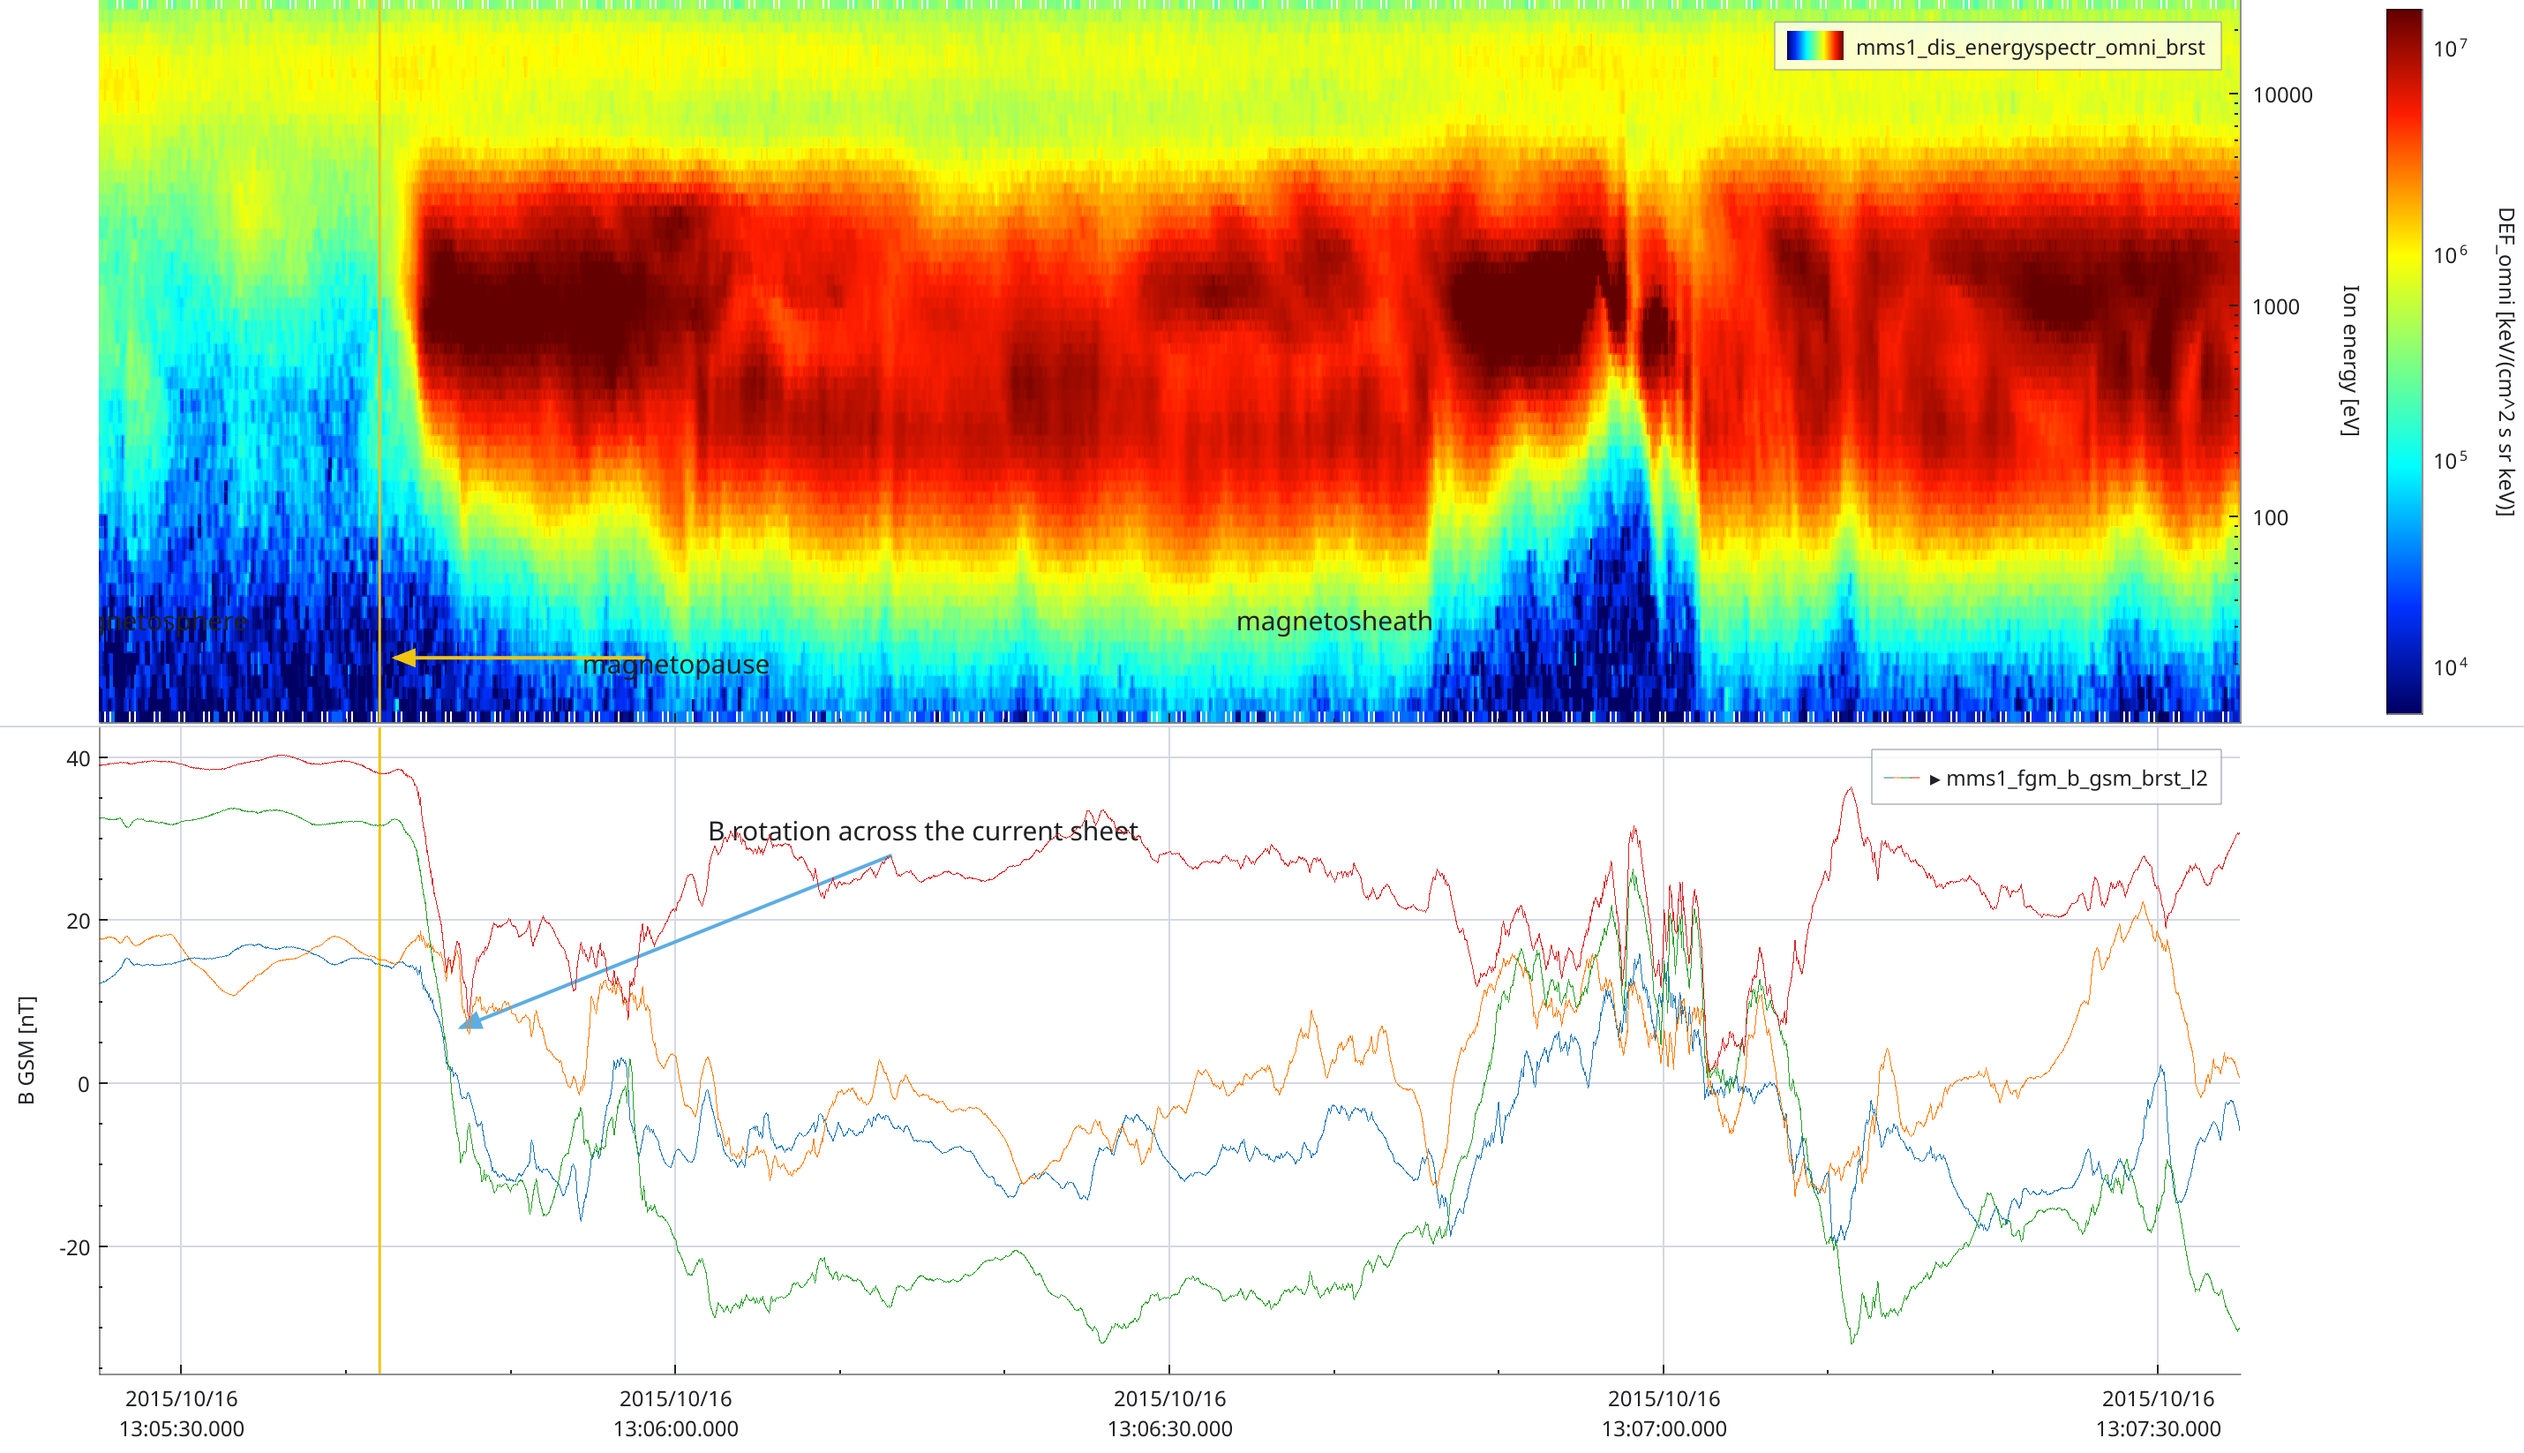
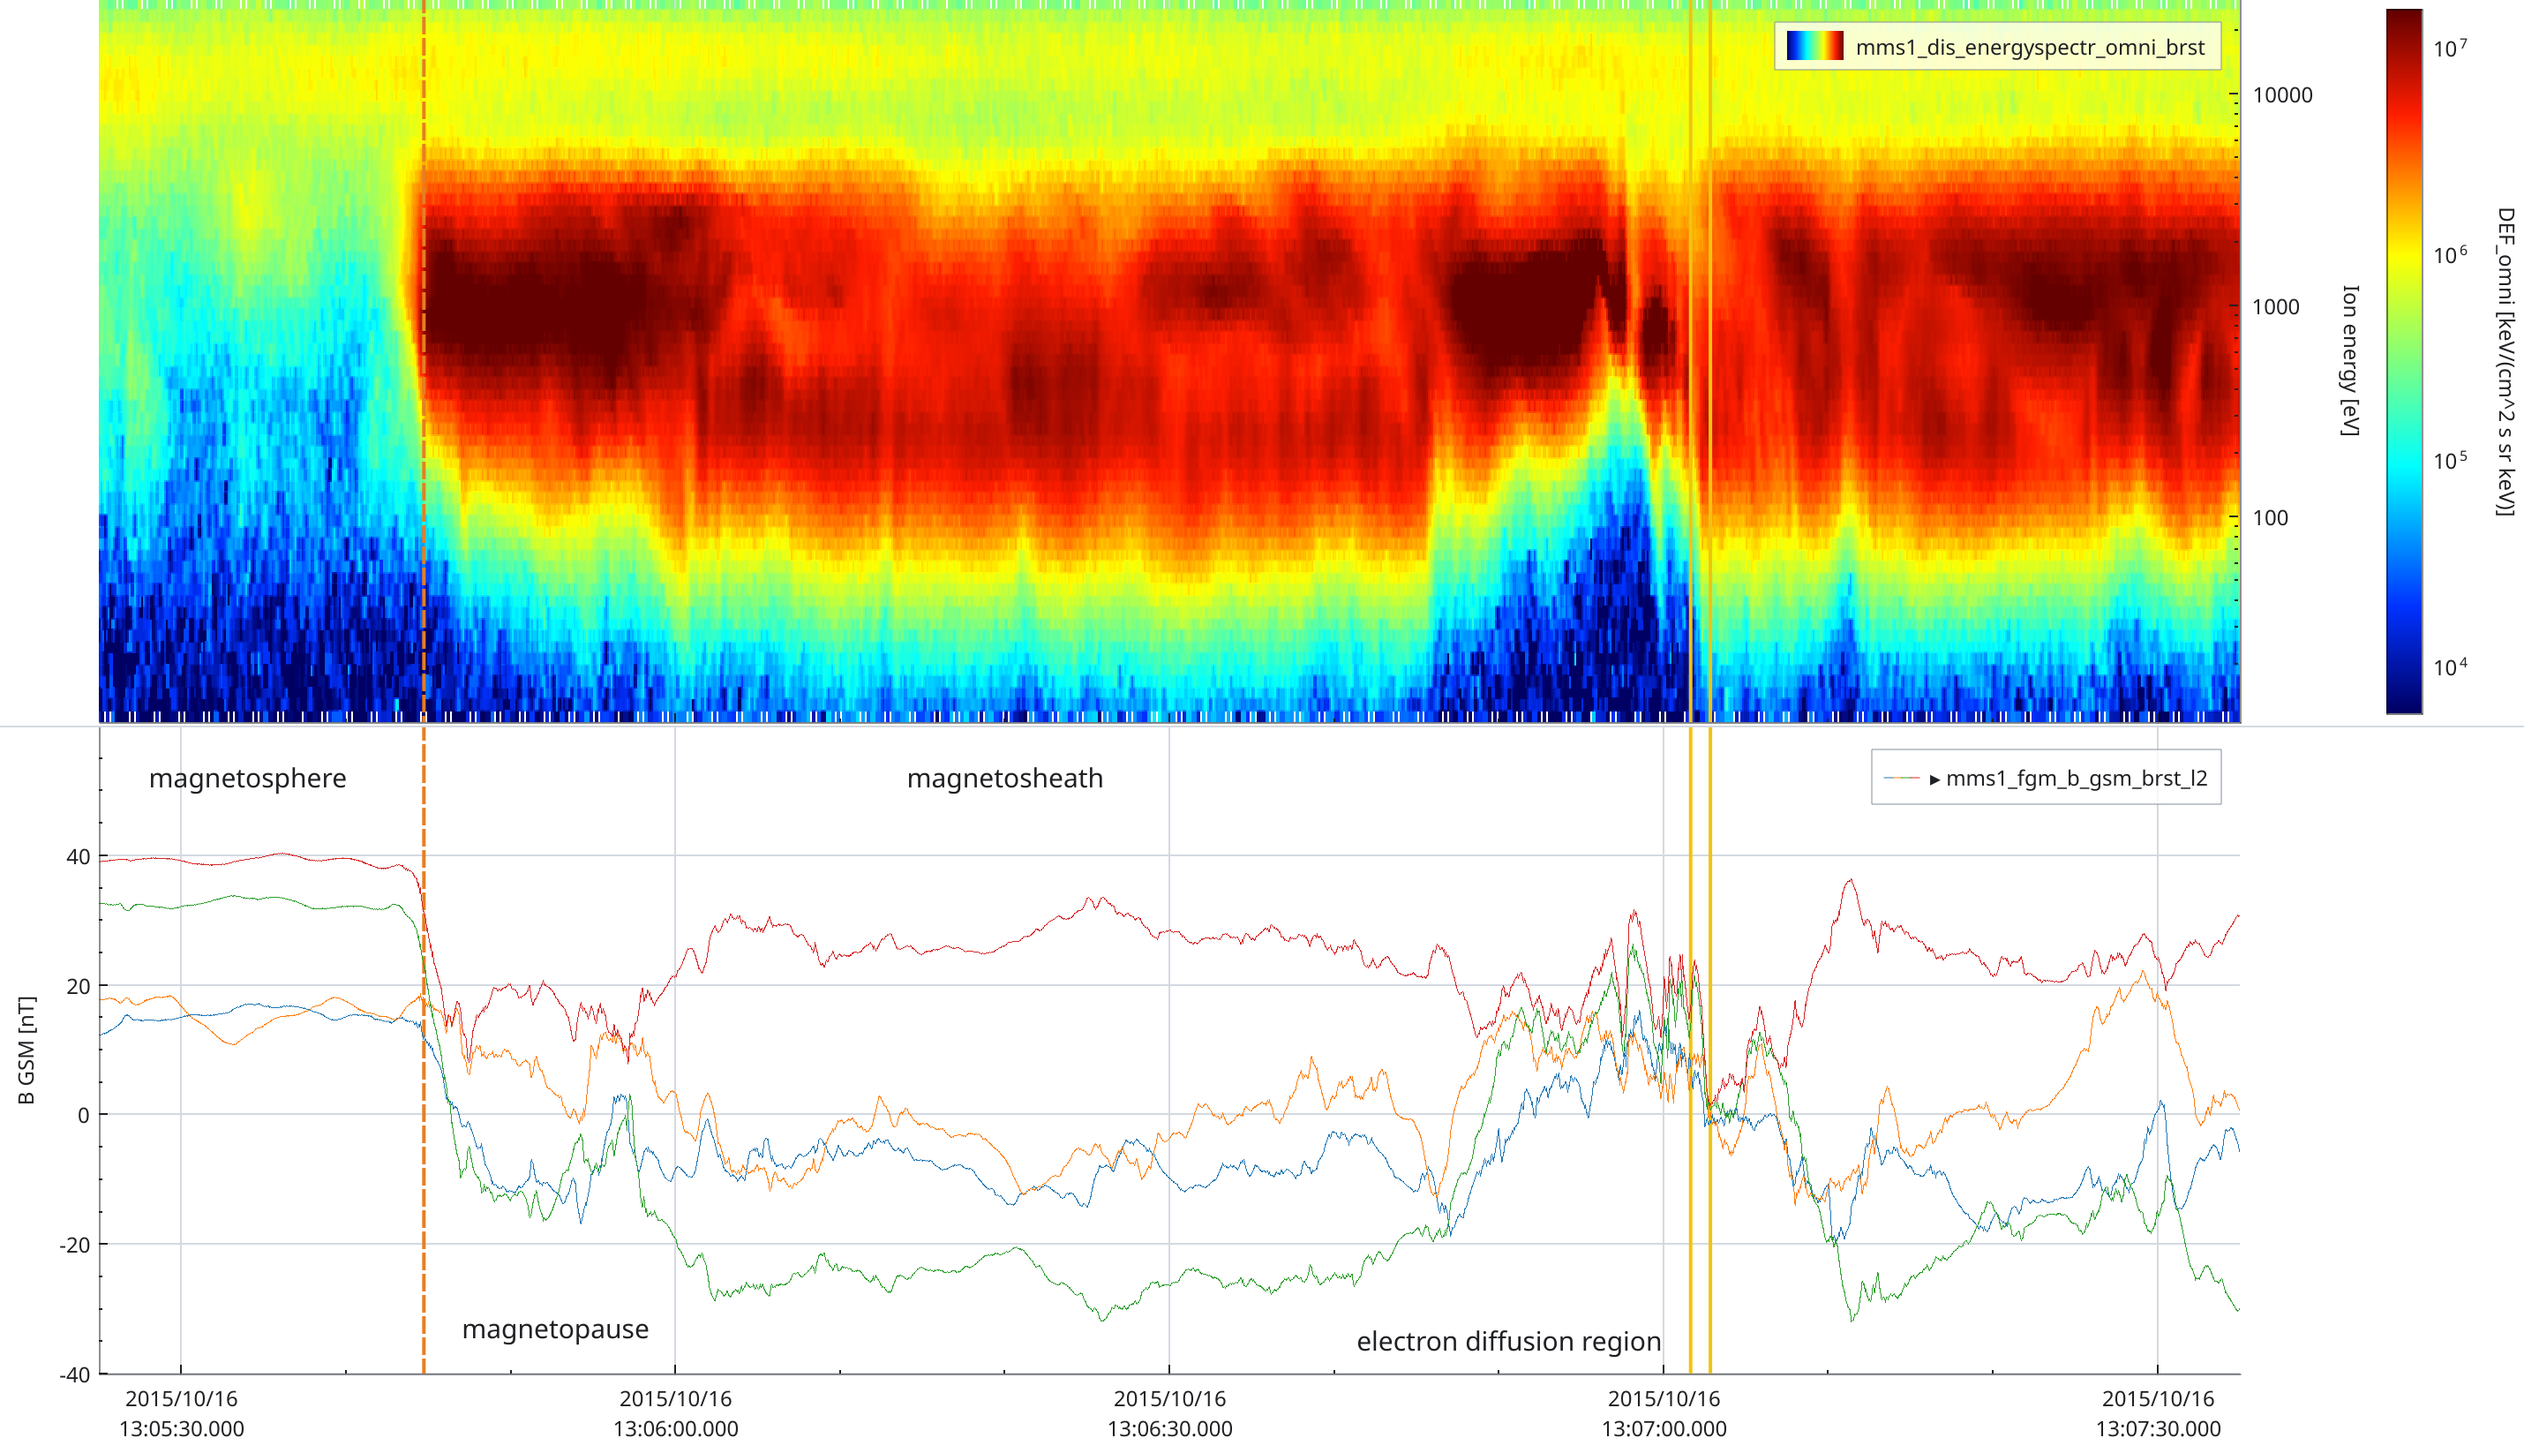
gallery: 09 marks the magnetopause and the EDR cleanly; heading no longer claims publication style
The old shot had clipped, unreadable labels and an arrow pointing at nothing.
Themes (10) reshot from the same panel.

diff --git a/scripts/shots/gallery_09_10_primitives_themes.py b/scripts/shots/gallery_09_10_primitives_themes.py
@@ -1,24 +1,38 @@
-"""09: publication-style annotation of the crossing with graphic primitives.
-10: the same panel in the four built-in palettes."""
+"""09: the Burch et al. (2016) crossing marked with graphic primitives: the magnetopause and the
+electron diffusion region. 10: the same panel in the four built-in palettes."""
 import os
 import sys
 from datetime import datetime, timezone
+
+import numpy as np
+import speasy as spz
 
 sys.path.insert(0, os.path.dirname(__file__))
 from mms import BURCH_EDR, DIS_BRST, FGM_BRST_GSM  # noqa: E402
 from shotlib import main_window, pump, save_panel, set_labels, settle  # noqa: E402
 
 from SciQLop.user_api import themes  # noqa: E402
-from SciQLop.user_api.plot import CurvedLine, LineTermination, Text, VerticalLine, create_plot_panel  # noqa: E402
+from SciQLop.user_api.plot import Text, VerticalLine, create_plot_panel  # noqa: E402
+from PySide6.QtCore import Qt  # noqa: E402
 
-YELLOW, BLUE = "#f1c40f", "#5dade2"
+ORANGE, YELLOW = "#e67e22", "#f1c40f"
+SHEATH_DENSITY = 5.0  # cm^-3
+LABEL_Y = 52.0  # nT, in the headroom above the field traces
 
 
-def utc(*hms) -> float:
-    return datetime(2015, 10, 16, *hms, tzinfo=timezone.utc).timestamp()
+def utc(h: int, m: int, s: float) -> float:
+    return datetime(2015, 10, 16, h, m, tzinfo=timezone.utc).timestamp() + s
 
 
-T_CROSS = utc(13, 5, 42)
+def magnetopause_time() -> float:
+    n = spz.get_data("cda/MMS1_FPI_BRST_L2_DIS-MOMS/mms1_dis_numberdensity_brst",
+                     BURCH_EDR.start(), BURCH_EDR.stop())
+    first = np.argmax(n.values[:, 0] > SHEATH_DENSITY)
+    return n.time[first].astype("datetime64[ns]").astype("int64") / 1e9
+
+
+T_MP = magnetopause_time()
+EDR = (utc(13, 7, 1.6), utc(13, 7, 2.8))
 
 main_window()
 panel = create_plot_panel()
@@ -26,22 +40,20 @@ panel.time_range = BURCH_EDR
 spectrum, _ = panel.plot(DIS_BRST + "mms1_dis_energyspectr_omni_brst")
 b_plot, _ = panel.plot(FGM_BRST_GSM)
 settle(panel)
-# Primitives use the left y axis, but a spectrogram draws on the right one ("y2"). Pinning the
-# unused left axis to 0..1 lets the spectrogram annotations sit at fractions of the plot height.
+# Primitives use the left y axis; a spectrogram draws on the right one ("y2"). Pinning the
+# unused left axis to 0..1 lets the spectrogram marks span the full plot height.
 spectrum.set_axis_range("y", 0.0, 1.0)
+b_plot.set_y_range(-40.0, 60.0)
 
 annotations = [
-    VerticalLine(spectrum, T_CROSS, color=YELLOW, line_width=1.5),
-    VerticalLine(b_plot, T_CROSS, color=YELLOW, line_width=1.5),
-    Text(spectrum, "magnetosphere", x=utc(13, 5, 31), y=0.14, color="white", font_size=11),
-    Text(spectrum, "magnetopause", x=utc(13, 6, 0), y=0.08, color="white", font_size=11),
-    Text(spectrum, "magnetosheath", x=utc(13, 6, 40), y=0.14, color="white", font_size=11),
-    CurvedLine(spectrum, start=(utc(13, 5, 58), 0.09), stop=(T_CROSS + 1, 0.09), color=YELLOW,
-               line_width=2.0, stop_termination=LineTermination.Arrow),
-    Text(b_plot, "B rotation across the current sheet", x=utc(13, 6, 15), y=31, color="white",
-         font_size=11),
-    CurvedLine(b_plot, start=(utc(13, 6, 13), 28), stop=(utc(13, 5, 47), 7), color=BLUE,
-               line_width=2.0, stop_termination=LineTermination.Arrow),
+    *(VerticalLine(p, T_MP, color=ORANGE, line_width=2.0, line_style=Qt.PenStyle.DashLine)
+      for p in (spectrum, b_plot)),
+    # A RectangularSpan would shade the EDR, but it doesn't draw yet (reported 2026-10-11).
+    *(VerticalLine(p, t, color=YELLOW, line_width=2.0) for p in (spectrum, b_plot) for t in EDR),
+    Text(b_plot, "magnetosphere", x=utc(13, 5, 34), y=LABEL_Y, font_size=11),
+    Text(b_plot, "magnetopause", x=T_MP + 8, y=-33.0, font_size=11),
+    Text(b_plot, "magnetosheath", x=utc(13, 6, 20), y=LABEL_Y, font_size=11),
+    Text(b_plot, "electron diffusion region", x=EDR[0] - 11, y=-35.0, font_size=11),
 ]
 pump(1)
 set_labels(panel, [("y2", "Ion energy [eV]"), ("y", "B GSM [nT]")])
@@ -49,7 +61,6 @@ save_panel(panel, "09-graphic-primitives-annotated-crossing.png")
 
 for theme in ["light", "dark", "neutral", "space"]:
     themes.apply_theme(theme)
-    pump(1.5)
-    set_labels(panel, [("y2", "Ion energy [eV]"), ("y", "B GSM [nT]")])
+    pump(4)
     save_panel(panel, f"10-theme-{theme}.png")
 themes.apply_theme("dark")

diff --git a/content/gallery/SOURCES.md b/content/gallery/SOURCES.md
@@ -16,7 +16,7 @@ cannot produce them; the reason is given.
 | `06-annotation-layer-detector.png` | Data-aware annotation layer `detectors/magnetosheath`: blue spans = N_i > threshold, orange markers = threshold crossings, red line = the threshold knob itself. | 2015-10-16 13:05:25–13:07:35 | as shot 01 | `@register_layer`, `panel.add_layer` — `gallery_06_annotation_layer.py`. |
 | `07-knobs-parameterized-virtual-product.png` | Full window, Properties dock open. Inspector shows the parameterised virtual product `demo/Bmag_smoothed` with its **Adjustable inputs** section: `Smooth window [samples]` and `Threshold [nT]`, both labelled. The red line on the bottom plot is the draggable threshold knob (`widget="hline"`), moved from 25 to 26.3 nT. Top plot is raw FGM burst B GSM. Reshot 2026-09-14. The Properties dock is an auto-hiding pane and overlays the plot while open. | 2015-10-16 13:05:25–13:07:35 | `speasy//cda//MMS//MMS1//FGM//MMS1_FGM_BRST_L2//mms1_fgm_b_gsm_brst_l2` + virtual `demo/Bmag_smoothed` (boxcar-smoothed \|B\|) | `create_virtual_product` + `Annotated[..., Knob(...)]`, `widget="hline"` knob rendered by SciQLop — `gallery_07_knobs.py`; Smooth window 128. |
 | `08-catalog-overlays-multi-plot.png` | Two colour-coded catalogs over three plots. MMS1 sits in the magnetosheath (N_i ≈ 20–40 cm⁻³, cold ions, turbulent B) until ~13:40, then enters the magnetosphere. Events were **derived from the data**, not hand-drawn. | 2015-10-16 10:00–16:00 | FPI-DIS + FGM survey L2 | `catalogs.save`, `add_catalog_overlay(override_color=...)` — `gallery_08_catalog_overlays.py`. |
-| `09-graphic-primitives-annotated-crossing.png` | Publication-style annotation of the same crossing. | 2015-10-16 13:05:25–13:07:35 | as shot 01 | `CurvedLine` (arrow terminations), `Text`, `VerticalLine` — `gallery_09_10_primitives_themes.py`. |
+| `09-graphic-primitives-annotated-crossing.png` | The same crossing, marked: magnetopause (dashed, first sample with N_i > 5 cm⁻³) and the electron diffusion region (13:07:01.6–02.8). Region labels in the theme's text colour. | 2015-10-16 13:05:25–13:07:35 | as shot 01 | `VerticalLine`, `Text` — `gallery_09_10_primitives_themes.py`; `RectangularSpan` would shade the EDR but doesn't draw yet. |
 | `10-theme-{light,dark,neutral,space}.png` | Identical panel in all four palettes — compose as a 2×2. | as shot 09 | as shot 09 | `themes.apply_theme` — `gallery_09_10_primitives_themes.py`. |
 | `11-ai-assistant-dock.png` | Agents dock (OpenCode backend) on the left, the request visible at the top of the chat, then the agent's plan and its product-tree lookups; the resulting panel on the right. Reshot 2026-09-14 by hand. | 2015-10-16 13:05:25–13:07:35 | FGM burst B GSM, FPI-DIS burst N_i, V_i GSE, omni ion energy spectrogram | AI assistant dock plotting from a one-sentence request — *(2026-09)* kept: needs a live agent conversation. |
 | `12-guided-tour-coach-mark.png` | First step of the "getting started" tour ("Welcome to SciQLop") over the welcome page. | — | — | Guided tour coach mark — *(2026-09)* unused. |

diff --git a/content/Gallery.md b/content/Gallery.md
@@ -63,11 +63,13 @@ labelled controls; the threshold knob is drawn on the plot as a movable line.
 Two colour-coded catalogs over three plots: magnetosheath intervals in blue, boundary crossings in orange.
 MMS1 sits in the magnetosheath until about 13:40, then enters the magnetosphere. The events were derived from the data, not hand-drawn.
 
-## Publication-style annotations
+## Marking an event
 
 ![[09-graphic-primitives-annotated-crossing.png]]
 
-Curved arrows, text and vertical lines from the graphic-primitives API, on the same crossing.
+Lines and text from the graphic-primitives API mark the magnetopause crossing and the electron
+diffusion region found by Burch et al. (2016). The magnetopause time is read from the ion density,
+not placed by hand.
 
 ## Four palettes
 
